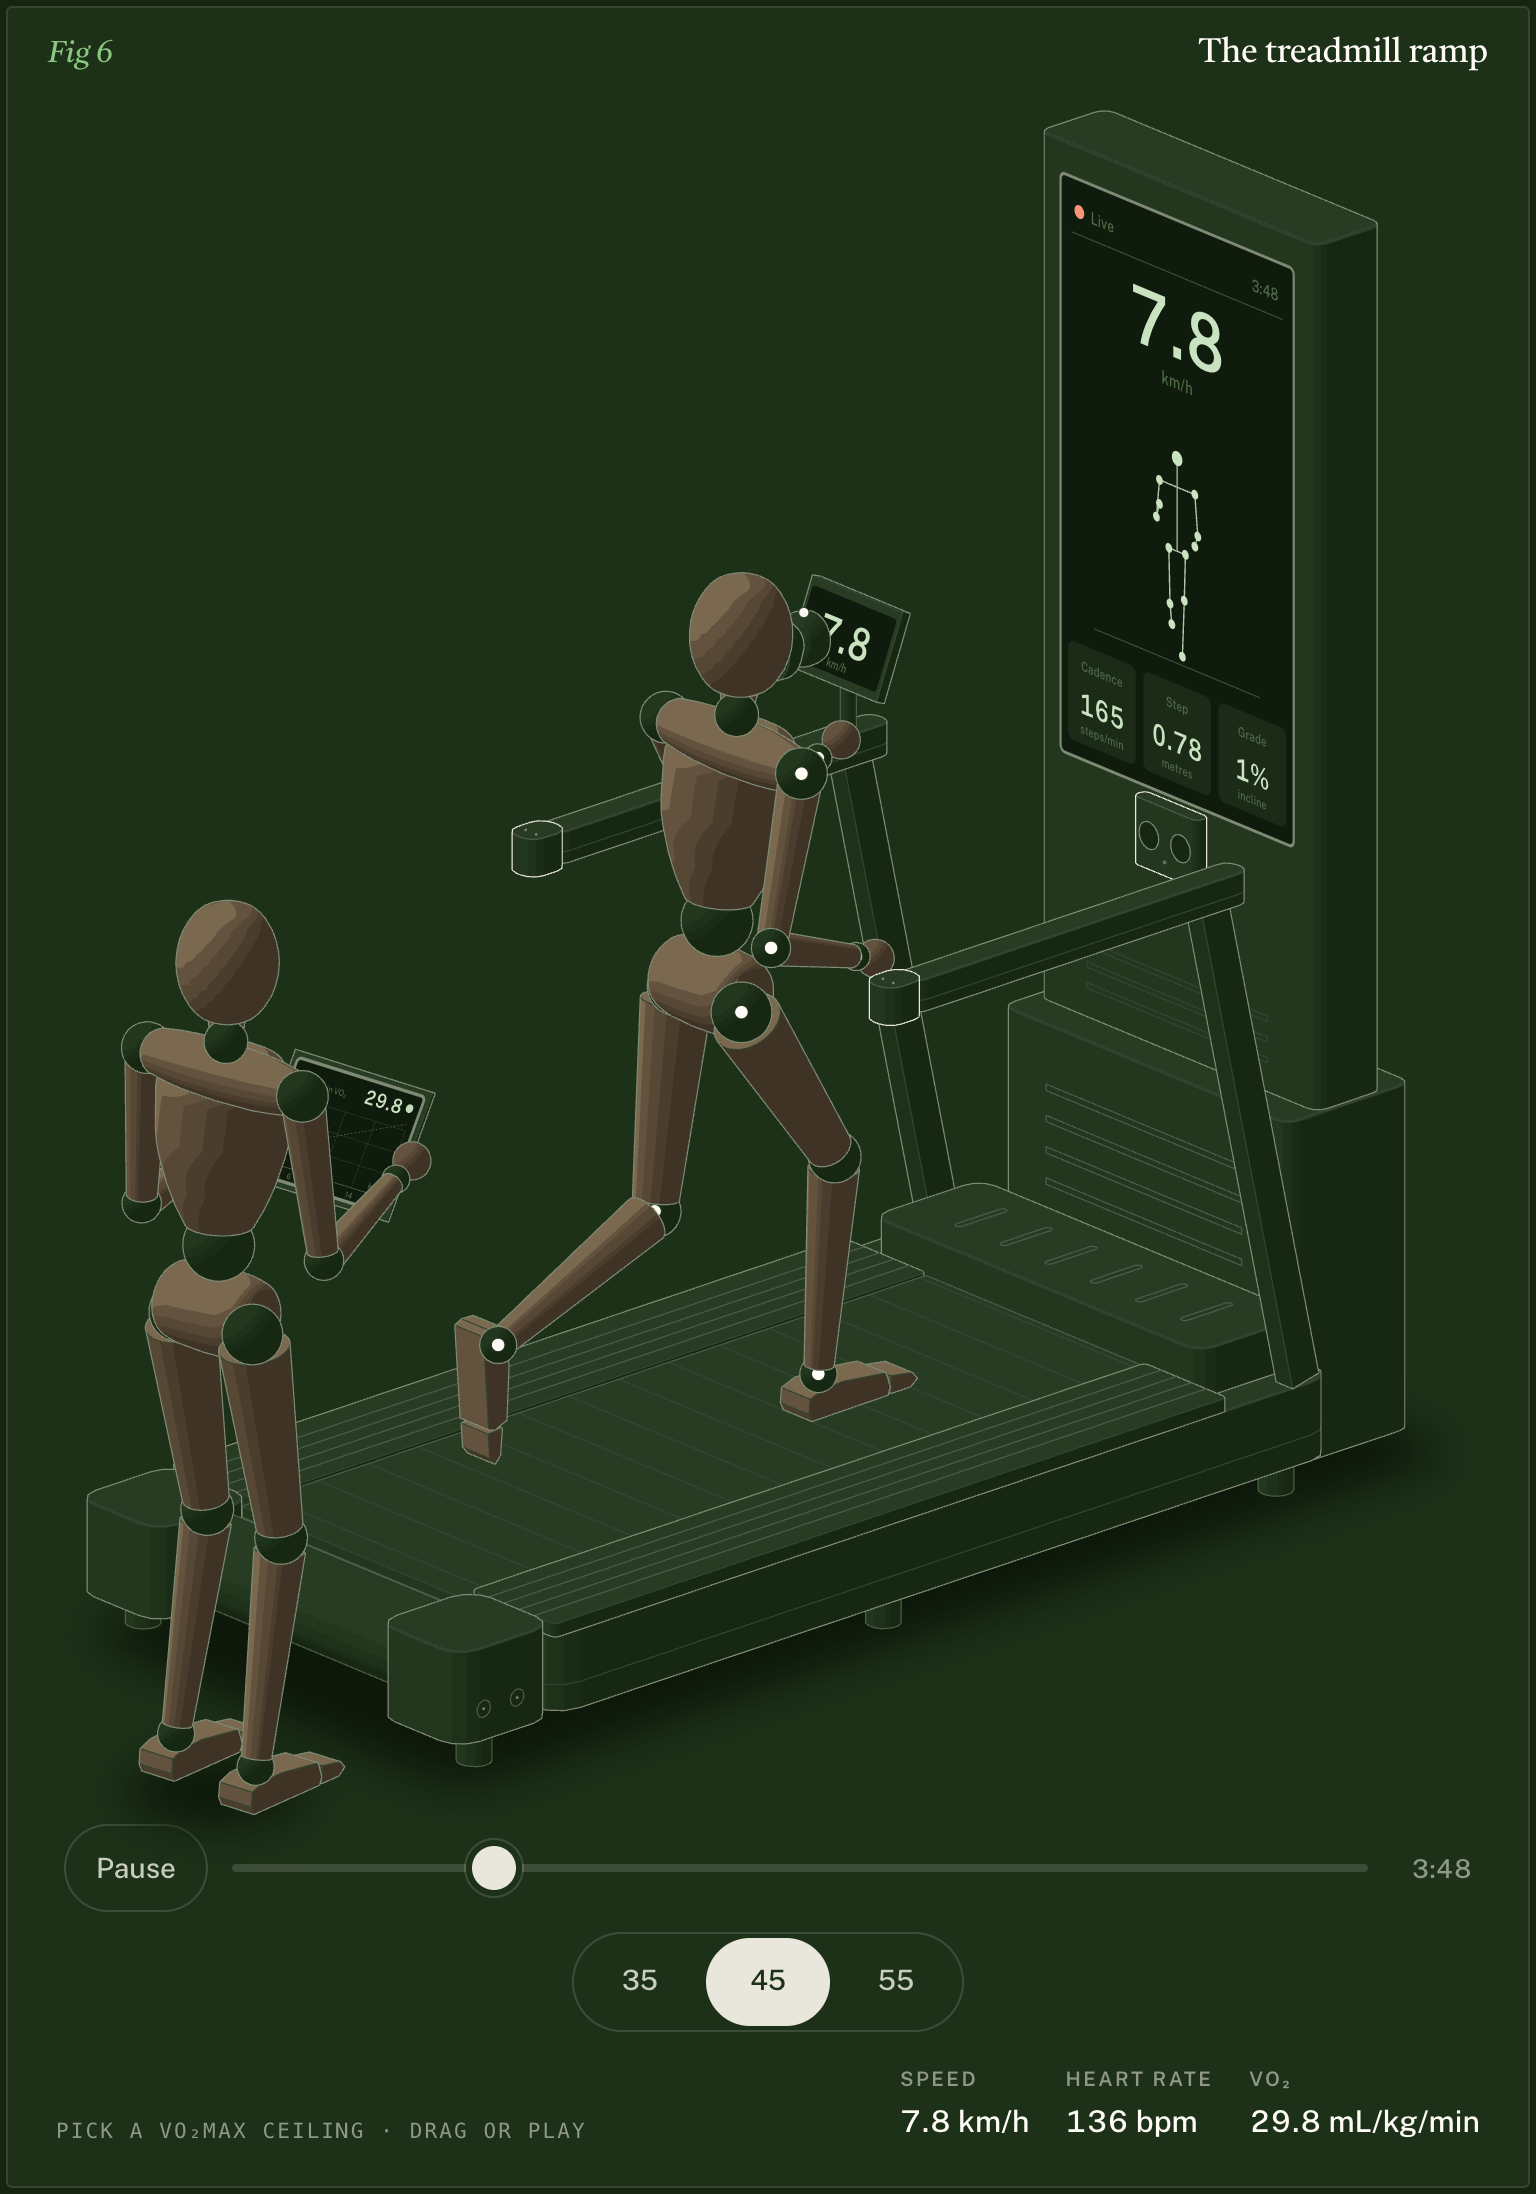
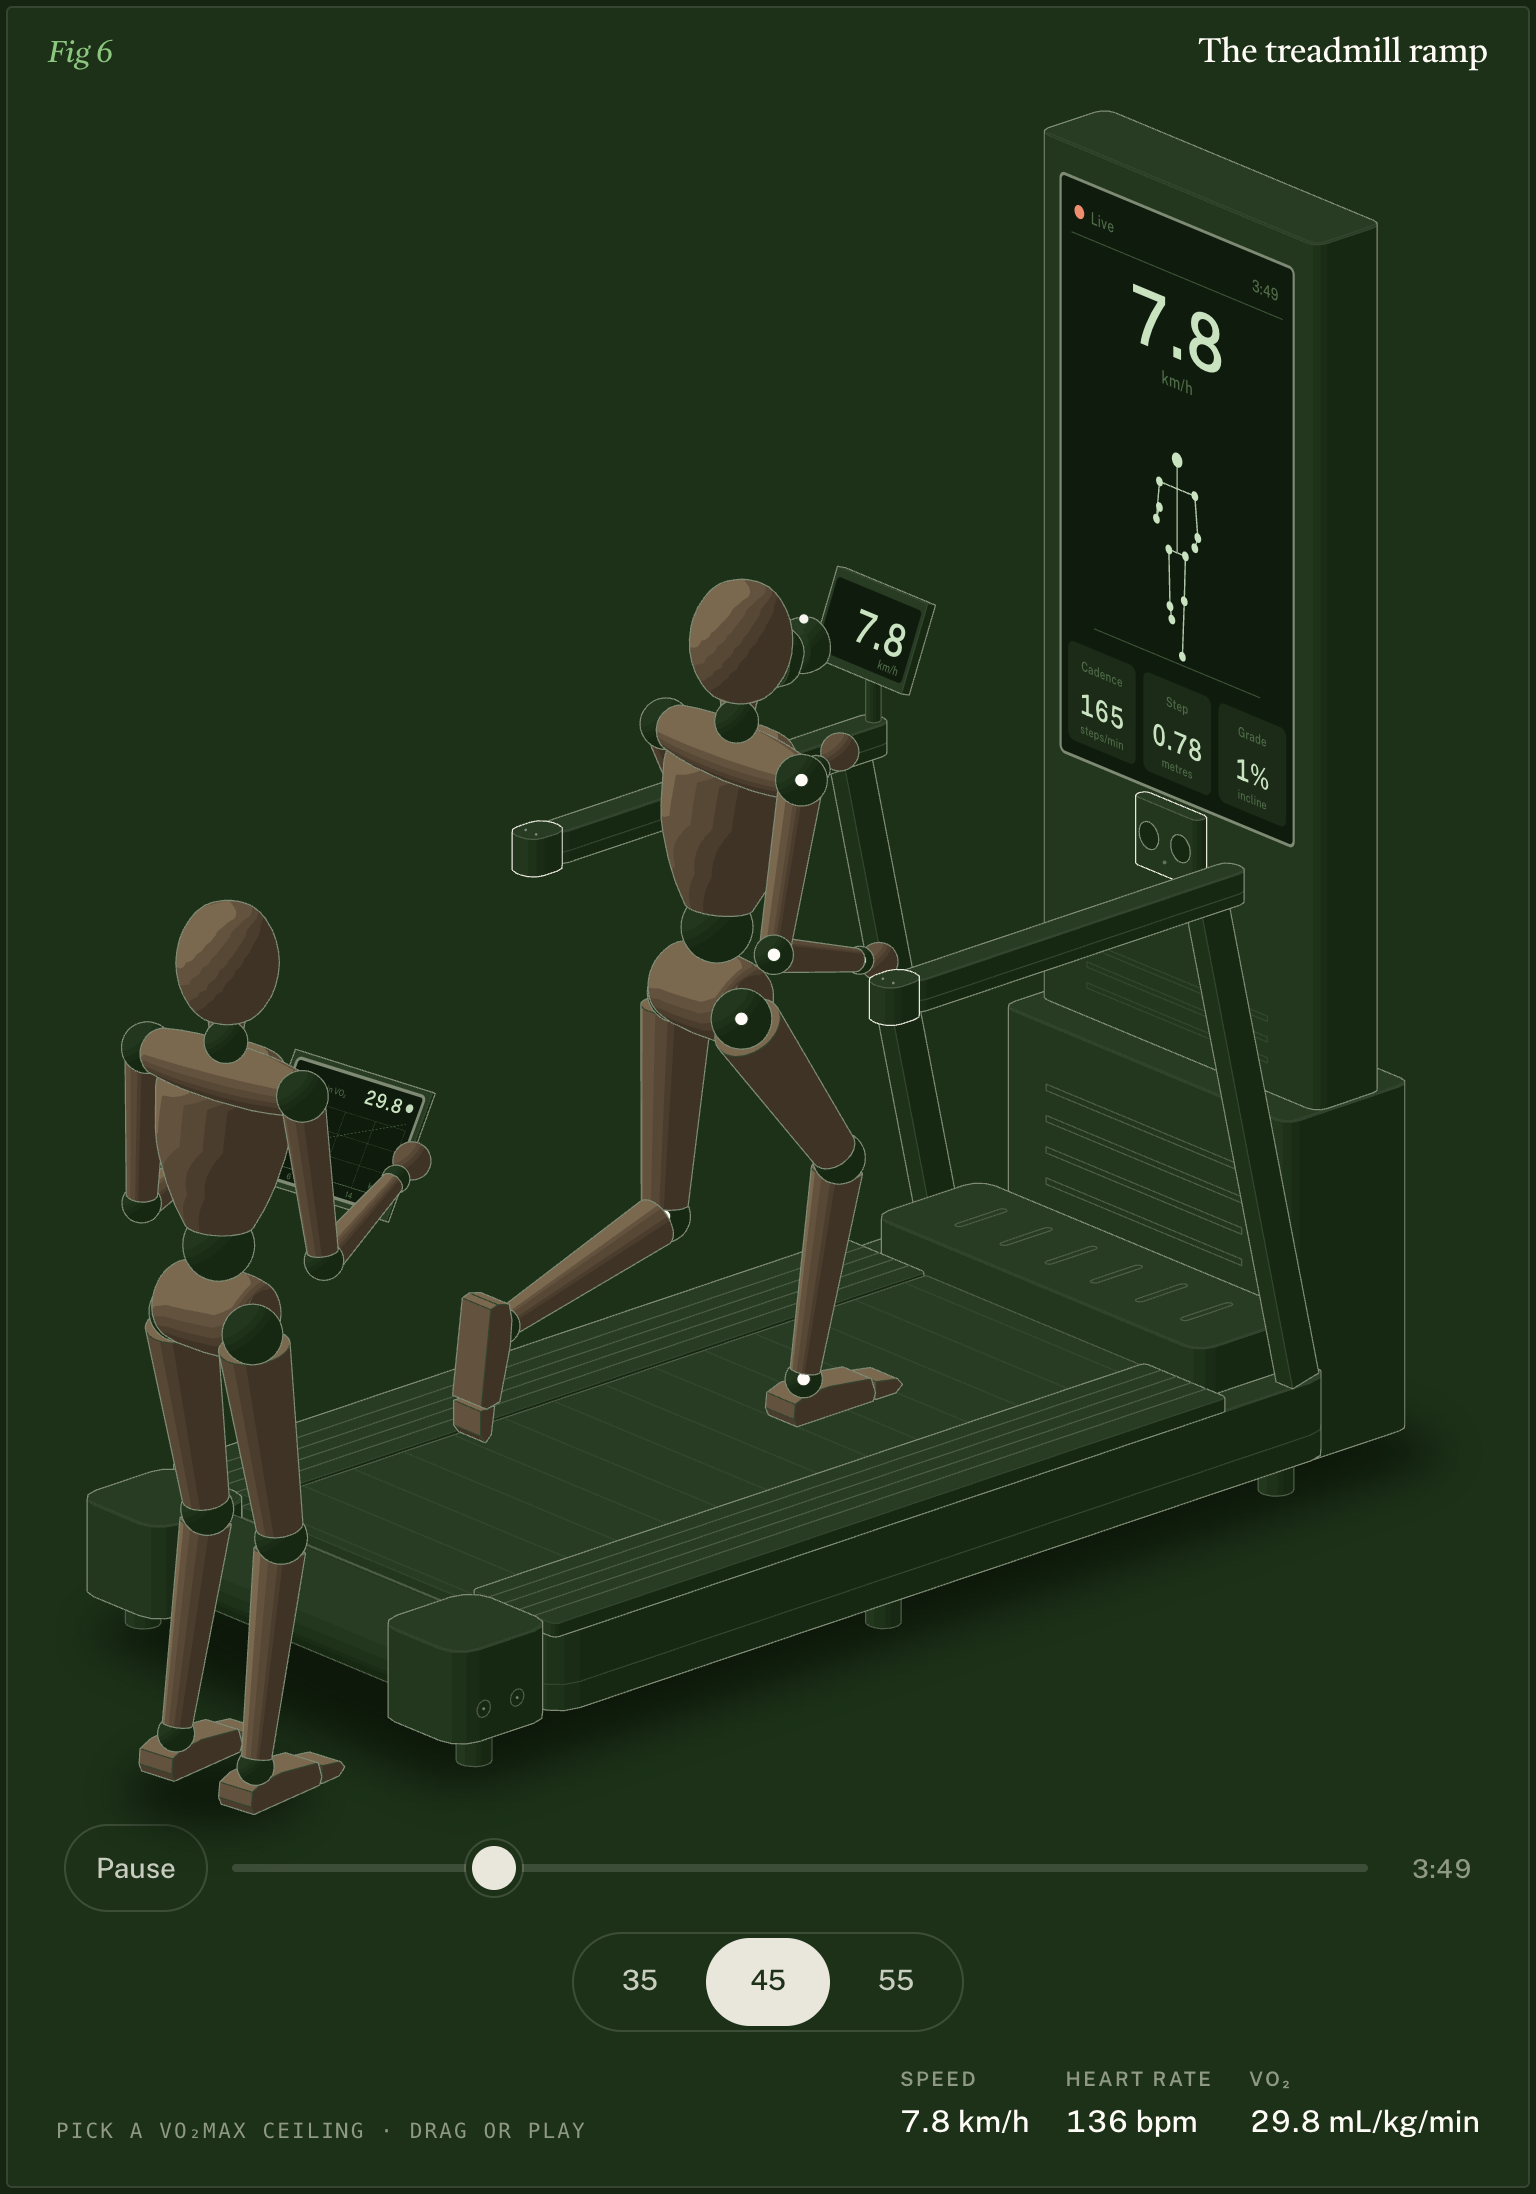
Fig 6: side panel speed no longer hidden by the runner's mask
The runner's mask and wireless analyser covered the left third of the side
touch panel's speed at some point in every stride, at every ceiling: "15.6"
read "5.6", "5.7" read ".7" (up to 94% of the first digit, by hit-testing
the digits through the stride at 1100 and 390 px).

- The panel moves forward along the far handrail (RAIL.x1 - 8 -> - 2); the
  stalk still sits on the rail's straight top.
- Speed and unit are right-aligned, so the decimal point holds still when
  9.9 becomes 10.0 (digits are already tabular).

Stage viewBox unchanged (600 x 713), so card reserves stand. verify.mjs:
line ends 0 both themes, fits 390/360/320, console clean. Shots retaken.

diff --git a/DEV_TODO.md b/DEV_TODO.md
@@ -4,7 +4,7 @@ In order. Sizes are rough, for one engineer who knows the site repo. See `ENGINE
 
 ## Changed since the handoff
 
-- **Oct 21, 2026: small polish. Re-export all 15 embeds again.** The light theme's muted and legend grey is now #716e68 (4.97:1 on cream, up from 4.46:1). Fig 1's hint reads "tap for a small rise" and Fig 3's "press Play", in place of "space" on phones. Card heights are unchanged.
+- **Oct 21, 2026: small polish. Re-export all 15 embeds again.** The light theme's muted and legend grey is now #716e68 (4.97:1 on cream, up from 4.46:1). Fig 1's hint reads "tap for a small rise" and Fig 3's "press Play", in place of "space" on phones. **Fig 6:** the side panel moved 6 cm forward along the far handrail and its speed is right-aligned, so the runner's mask no longer hides the first digit ("15.6" had read "5.6" at points in every stride). Card heights are unchanged.
 - **Oct 21, 2026: the equipment films were re-cut and the take-apart pages polished (E1–E4).** The camera now only moves forward, so any change to a wider framing is a hard cut. All 16:9, 9:16 and web encodes in `figures/e*/assets/` are replaced, along with their posters. The pages share one header, corner labels and equal-width button rows, and meet 4.5:1 contrast. Re-copy every `assets/` file you took before Oct 21.
 - **Oct 20, 2026: visual-bug sweep. Re-export all 15 embeds** (`scripts/export-embeds.mjs`); every embed script changed. Card heights are unchanged (re-measured at 358 and 760 px), so `FIGURE_RESERVE` and `placements.json` stay as they are.
   - **All figures:** segmented options are at least 44 px wide at 320 px (Fig 2 "Arm"/"Leg", Fig 5 "25"–"55", A4/A5 "Rest"/"Run", A7 "+5%" were 30–43 px). Captions keep a number on the same line as its unit and both ends of a range together (no more "13–22" / "% below"). Words are unchanged.

diff --git a/figures/06-vo2max-treadmill/NOTES.md b/figures/06-vo2max-treadmill/NOTES.md
@@ -18,6 +18,13 @@
 
 It's a generic UI, not a copy of the Creator software. Audit passed and `lines.mjs` reports 0; all captures are retaken.
 
+**Round 3 (2026-10-21, visual-bug sweep):** the runner's mask and analyser covered the left third of the side panel's speed at some point in every stride, at every ceiling, so "15.6" read "5.6" and "5.7" read ".7".
+- The panel moved forward along the far handrail, from 8 to 2 units short of the rail end. Its stalk still sits on the rail's straight top.
+- The speed and its unit are now right-aligned, so the decimal point holds still when 9.9 becomes 10.0.
+- Measured by hit-testing the digits through the stride at each ceiling, at 1100 and 390 px:
+  - The first digit was up to 94 % covered; now nothing beyond the blank bezel is.
+- The stage viewBox is unchanged (600 × 713), so card reserves stand. `scripts/verify.mjs` passed: line ends 0 in both themes, fits at 390/360/320, console clean.
+
 ## Numbers
 
 All in `reference/truth-pack.md` §5, under "How Fig 6 uses these numbers".
